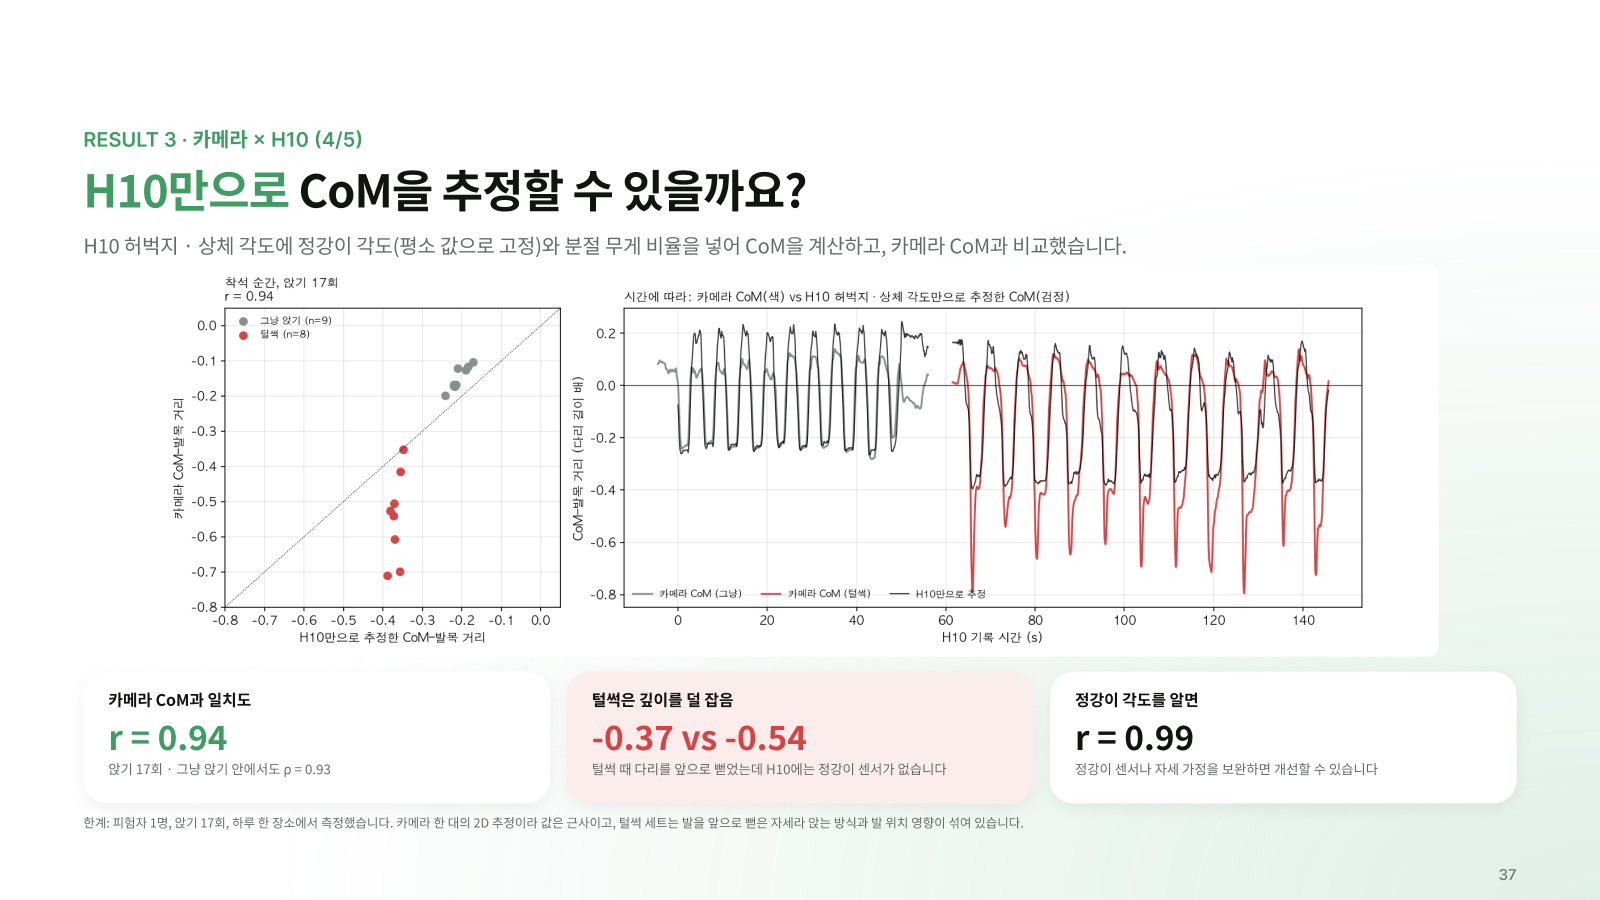
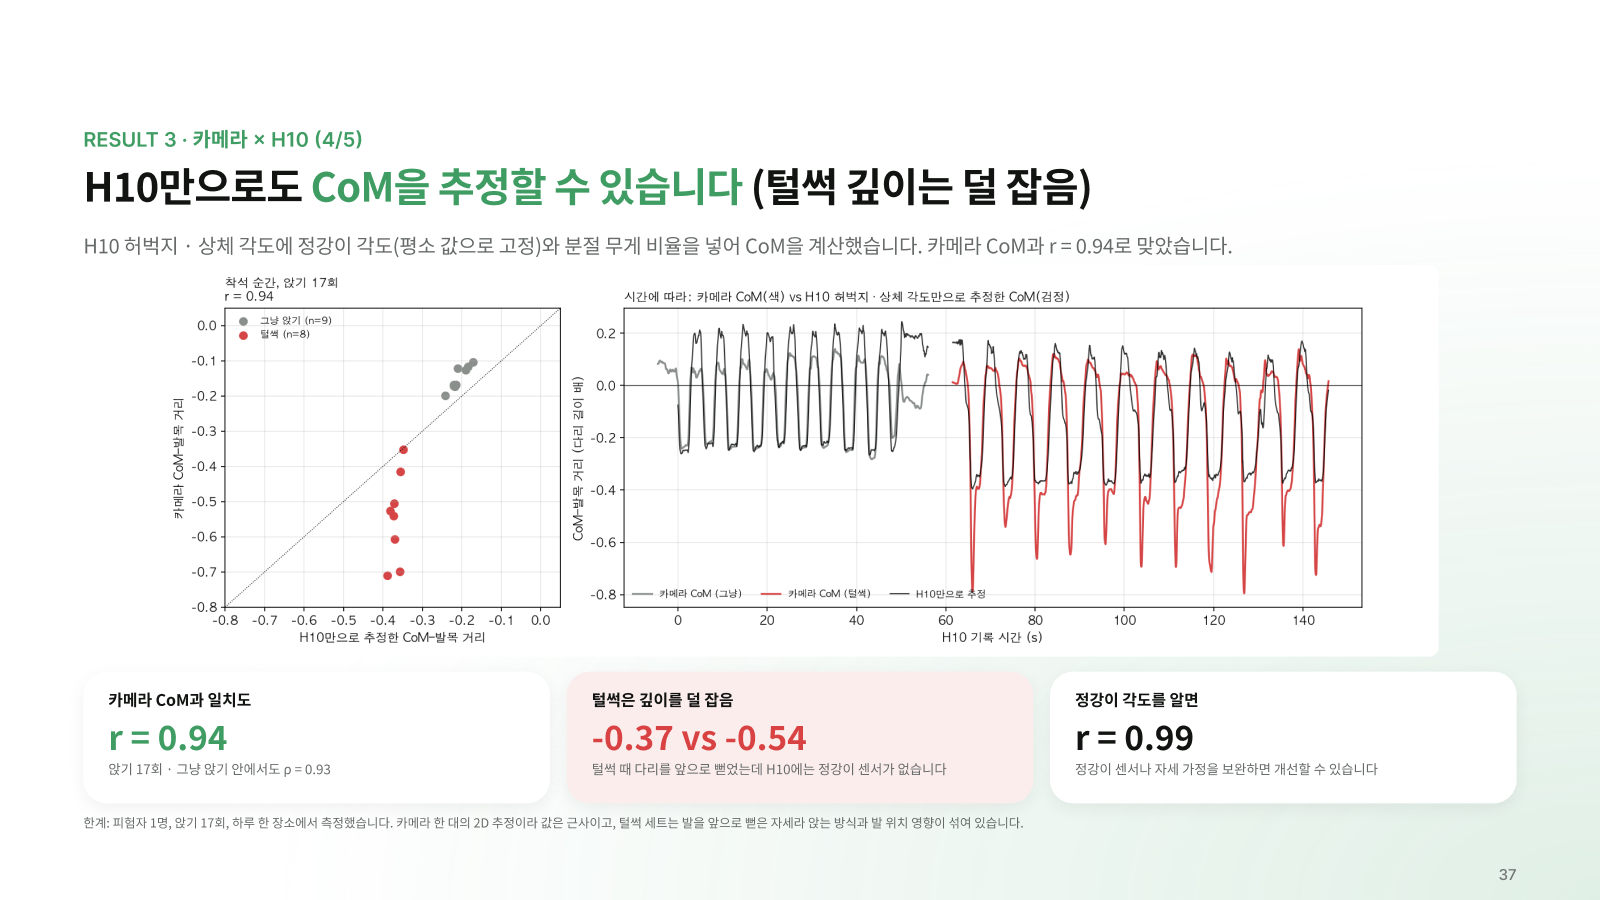
Slides: conclusion title for H10-only CoM; new data is 30 cm chair

Changed region(s): [[0.0312, 0.1867, 0.75, 0.28]]

diff --git a/presentation/발표_흐름.md b/presentation/발표_흐름.md
@@ -45,8 +45,8 @@ Figma Slides: https://www.figma.com/slides/4tZDoTD6FXxpx83Z0kraKR
 | 34 | RESULT 3 (1/5) | 카메라로 본 CoM: 착석 직전 무게중심이 발 뒤로 빠집니다 | 데이터: 옆 카메라 + H10 동시 기록, 그냥 10번 · 털썩 11번(보조 끔). CoM–발목 -0.15 vs -0.54. 사진은 공개 저장소에서 생략 |
 | 35 | RESULT 3 (2/5) | 털썩 앉기 11번: 닿는 순간 상체가 젖혀지며 CoM이 뒤로 빠집니다 | 시계열. 마지막 40° 약 1.0초, 상체 48° → 0° → -15°, CoM 닿는 순간 -0.58 · 직후 최대 -0.68 |
 | 36 | RESULT 3 (3/5) | H10 신호가 CoM을 따라갑니다 | ρ 0.72 / -0.75 / -0.58. 알고리즘: 털썩 11/11 자세 판정, 제동 0%. 보정 시험(멈칫 보정 + 속도·CoM 합산): 털썩 제동 55%, 그냥 0% 유지, 단 착석 0.03초 전·최대 2.4 Nm로 늦고 약함. 같은 11회로 기준을 정해 새 데이터 검증 필요 |
-| 37 | RESULT 3 (4/5) | H10만으로 CoM을 추정할 수 있을까요? | r = 0.94, 털썩 깊이 덜 잡음(-0.37 vs -0.54), 정강이 각도 알면 r = 0.99. 한계: 1명 · 17회 · 2D |
-| 38 | RESULT 3 (5/5) | 새로 찍은 20번에서도 같은 관계가 다시 나왔습니다 | 새 데이터(계단 그냥 10 · 털썩 10, 처음 분석에 안 씀): CoM -0.13 vs -0.38, ρ 0.72 / -0.69 / -0.54 (p < 0.02), H10만 추정 r = 0.88. 제동 기준 그대로: 털썩 30% → 70%, 그냥 오탐 10%(0.15 Nm), 여전히 늦고 약함(0.06초 전, 2.5 Nm). 상체 덜 숙임 판정은 계단 그냥도 50% → 의자 높이별 기준 필요. 두 번째 피험자 영상 같은 경향(검증 예정) |
+| 37 | RESULT 3 (4/5) | H10만으로도 CoM을 추정할 수 있습니다 (털썩 깊이는 덜 잡음) | r = 0.94, 털썩 깊이 덜 잡음(-0.37 vs -0.54), 정강이 각도 알면 r = 0.99. 한계: 1명 · 17회 · 2D |
+| 38 | RESULT 3 (5/5) | 새로 찍은 20번에서도 같은 관계가 다시 나왔습니다 | 새 데이터(30 cm 의자 그냥 10 · 털썩 10, 처음 분석에 안 씀): CoM -0.13 vs -0.38, ρ 0.72 / -0.69 / -0.54 (p < 0.02), H10만 추정 r = 0.88. 제동 기준 그대로: 털썩 30% → 70%, 그냥 오탐 10%(0.15 Nm), 여전히 늦고 약함(0.06초 전, 2.5 Nm). 상체 덜 숙임 판정은 30 cm 그냥도 50% → 의자 높이별 기준 필요. 두 번째 피험자 영상 같은 경향(검증 예정) |
 | 39 | RESULT 4 · 보조 켜고 시험 | H10 보조 ON 1차 실측 | 후반 급하강 제어 부족, 앉기 전 선행 작동, 서 있을 때 오작동 → 수정 |
 | 40 | LIMITATION & NEXT | 한계와 추가 실험 | CoM·엉덩이 충격·근육 활동 직접 측정 한계 → 힘판, EMG, 카메라 CoM |
 | 41 | CONCLUSION | 낮은 의자 착석에서 H10이 확인한 것 | |
